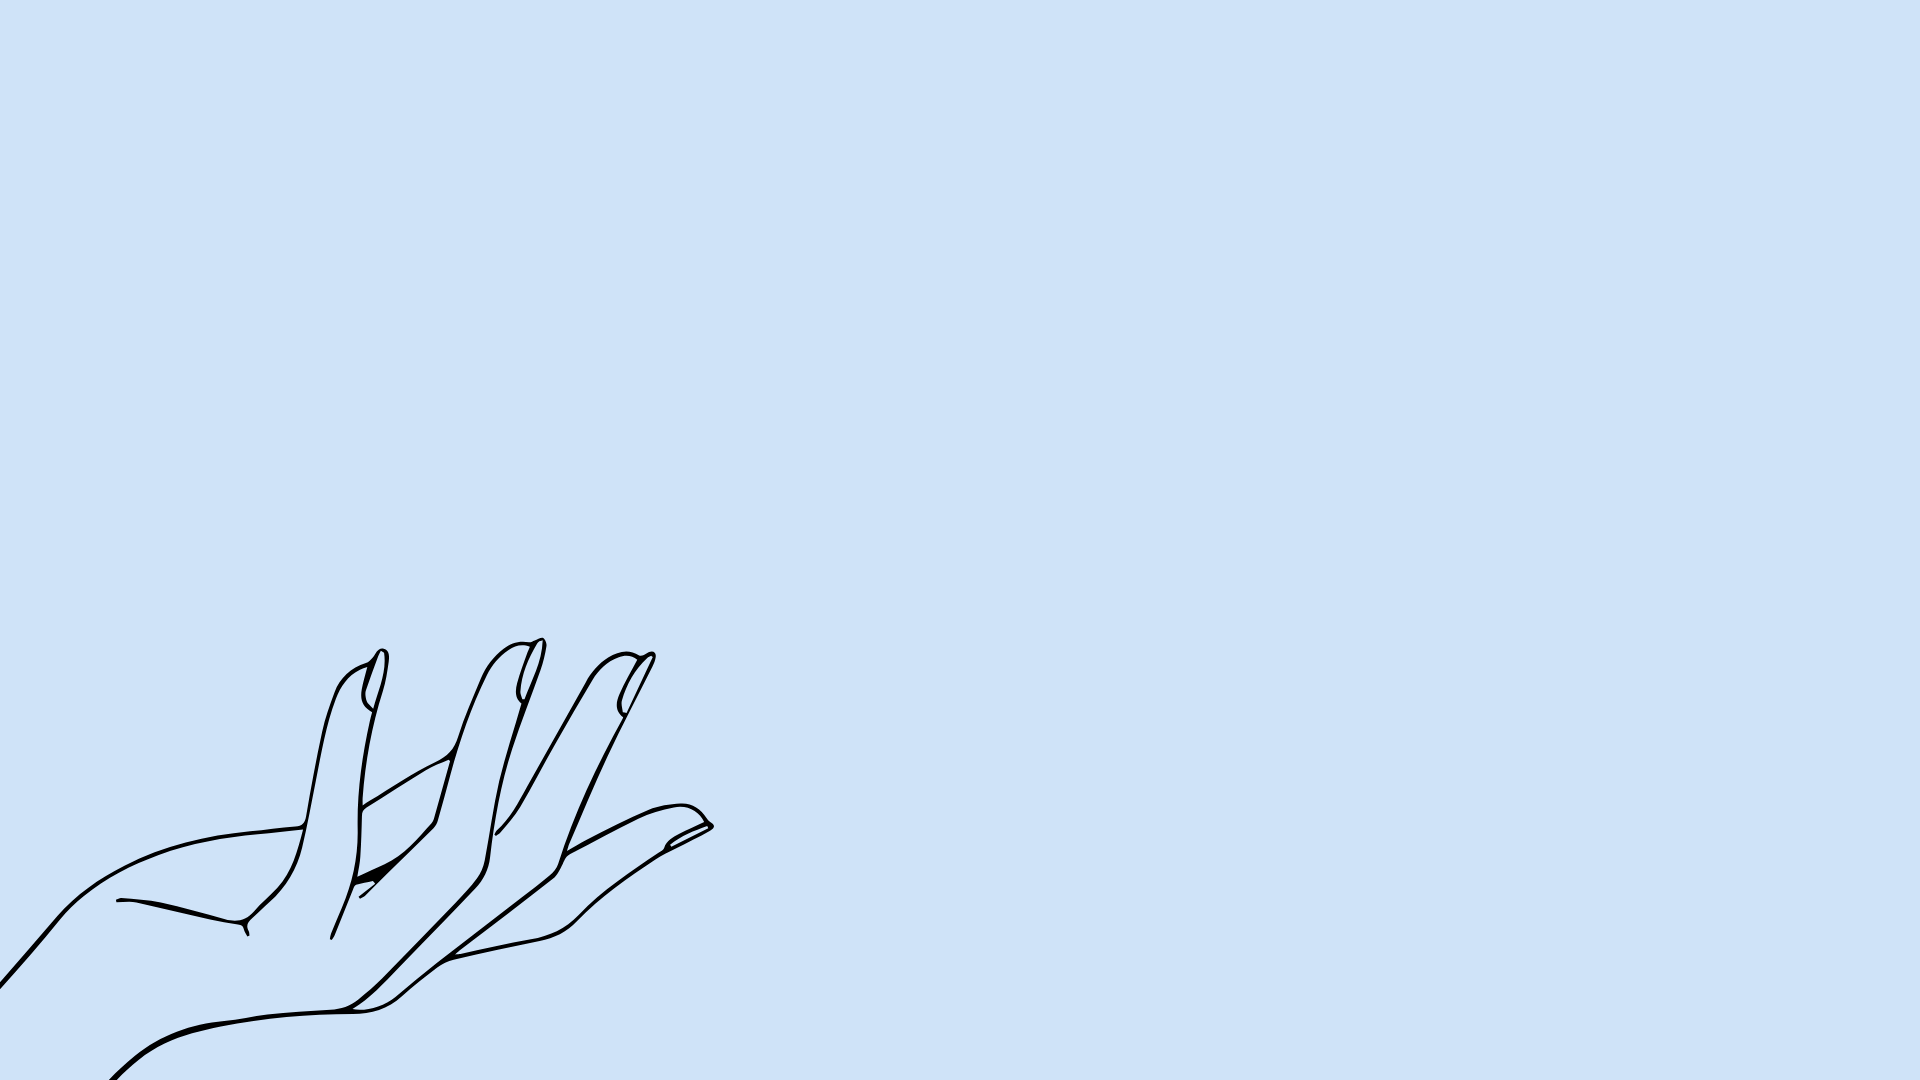
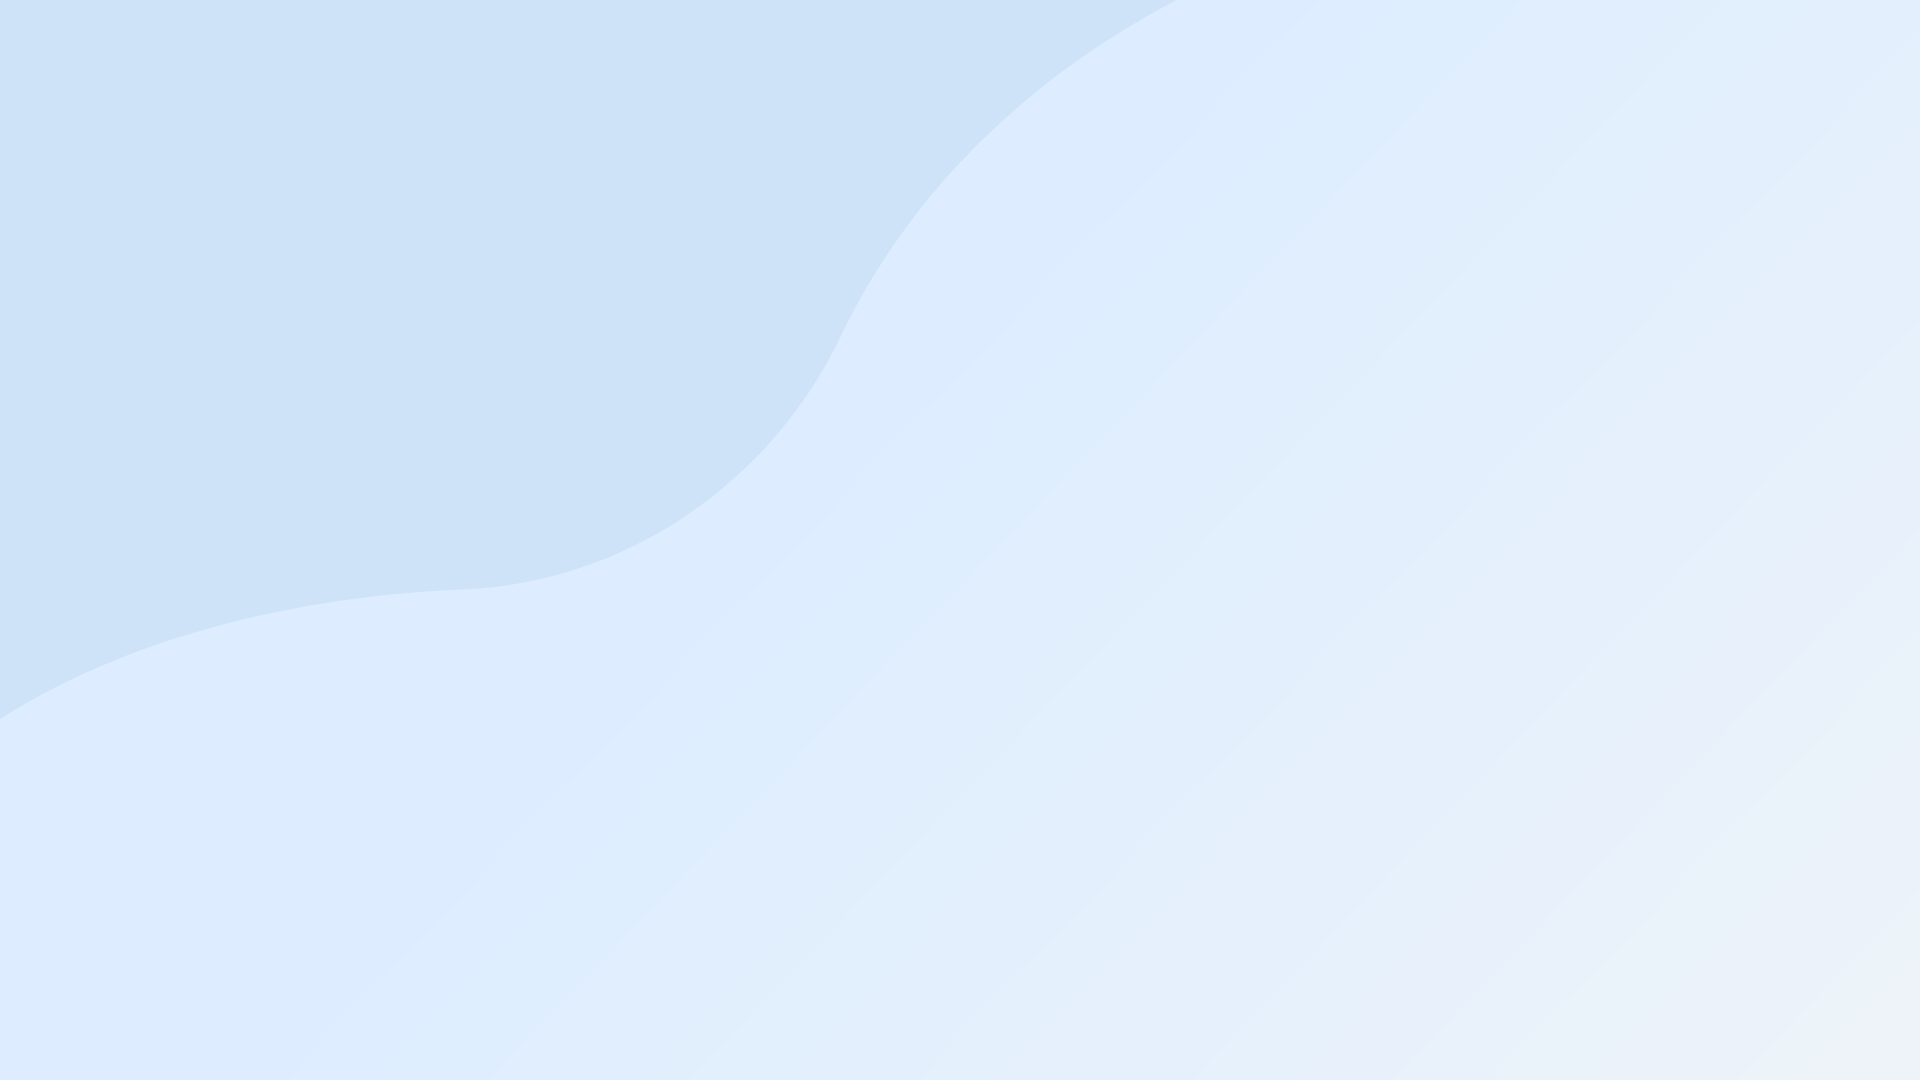
Change About (Home) background

diff --git a/src/components/home-page/About.jsx b/src/components/home-page/About.jsx
@@ -2,7 +2,7 @@ import { PropTypes } from "prop-types";
 
 export default function About({ setPage }) {
   return (
-    <div className="flex flex-col gap-6 items-center my-40 mx-8 bg-blue-2 lg:flex-row border lg:mx-0 lg:p-32">
+    <div className="flex flex-col gap-6 items-center my-40 mx-8 bg-about bg-cover lg:flex-row lg:mx-0 lg:p-32">
       <img className="lg:w-1/2" src="./images/hero-3.jpeg" />
       <div className="flex flex-col gap-4 text-center items-center lg:items-start lg:p-12 lg:text-start">
         <h1 className="text-3xl font-karla font-bold lg:text-7xl lg:-tracking-wide">
